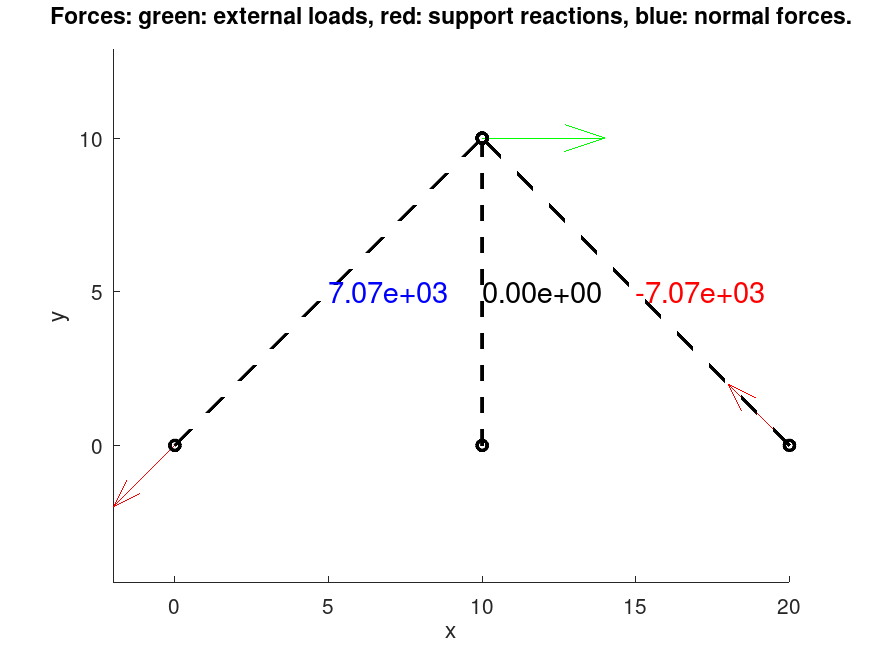
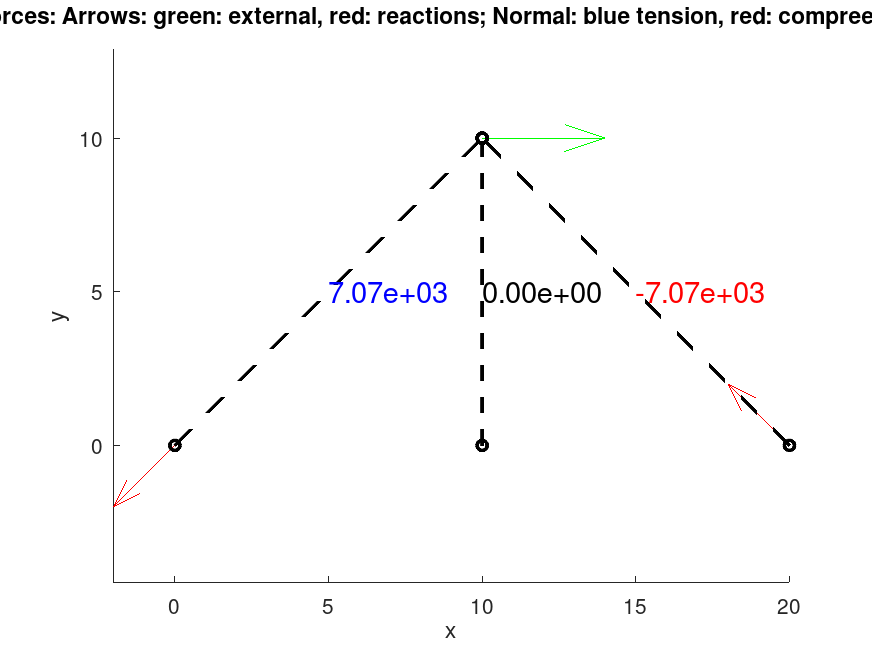
fix title, fix verif

Changed region(s): [[0.0, 0.0, 1.0, 0.0612]]

diff --git a/examples/Example_5.m b/examples/Example_5.m
@@ -63,16 +63,6 @@ Process
 %% 4- Output
 Plots
 
-% Ns_sol = zeros( 10,3) ;
-% Ns_sol( [ 3 5 6 8   10 ], 1 ) = [ 50e3; -50e3; -50e3*sqrt(2); -50e3; 50e3*sqrt(2) ] ;
-% Ns_sol( [ 1 2 5 8   10 ], 2 ) = [ -1; -1; -1; -1; 1*sqrt(2) ] ;
-% Ns_sol( [ 2 5 7 8 9 10 ], 3 ) = [ -1/sqrt(2); -1/sqrt(2); -1/sqrt(2); -1/sqrt(2); 1; 1 ] ;
-
-% disp_sol = 0.006072 ;
-
-% verif_boolean = ( norm( Ns - Ns_sol ) < 1e-6 ) && ( abs( disp - disp_sol ) < ( 1e-2*disp_sol ) )
-
-% scalefactor = 10;
-% FEMTrusS
+verif_boolean = norm( ResultNormalForces - [0;0;0;-5;-5] ) < 1e-8 ;
 
 

diff --git a/src/Plots.m b/src/Plots.m
@@ -46,7 +46,7 @@ for i=1:nelems
 end
 axis equal, xlabel('x'), ylabel('y')
 
-title('Forces: green: external loads, red: support reactions, blue: normal forces.')
+title('Forces - Arrows: green: external, red: reactions // Normal: blue: tension, red: compression.')
 if exist( 'problem_name' ) ~= 0 
   print( '-dpng', [ problem_name '_forces.png' ] )
 end

diff --git a/src/Process.m b/src/Process.m
@@ -106,4 +106,3 @@ sum( ResultNormalForces .* Nsaux .* Lengths )
 disp = sum( ResultNormalForces .* Nsaux ./ ( Youngs .* Areas ) .* Lengths )
 
 
-verif_boolean = norm( ResultNormalForces - [0;0;0;-5;-5] ) < 1e-8

diff --git a/README.md b/README.md
@@ -1,12 +1,12 @@
-# FMTS: a Force Method Truss Solver
+# FMS: a Force Method Solver
 
-![tests](https://github.com/jorgepz/Force-Method-TrusS/workflows/tests/badge.svg)
-[![License](https://img.shields.io/badge/License-GPLv3-green.svg)](https://github.com/jorgepz/Force-Method-TrusS/blob/main/LICENSE)
+![tests](https://github.com/jorgepz/Force-Method-Solver/workflows/tests/badge.svg)
+[![License](https://img.shields.io/badge/License-GPLv3-green.svg)](https://github.com/jorgepz/Force-Method-Solver/blob/main/LICENSE)
 
 
-## What is FMTS?
+## What is FMS?
 
-FMTS is a GNU-Octave code for solving 2D truss problems using the [Force Method](https://en.wikipedia.org/wiki/Unit_dummy_force_method). The main variables are normal forces in truss elements, and support reactions. The code generates simple plots like this on 
+FMS is a GNU-Octave code for solving 2D truss problems using the [Force Method](https://en.wikipedia.org/wiki/Unit_dummy_force_method). The main variables are normal forces in truss elements, and support reactions. The code generates simple plots like this on 
 
 ![fig example 1](examples/Example_1_forces.png)
 
@@ -16,7 +16,7 @@ The purpose of this repo is to provide an example of a computational implementat
 
 ## How to use it?
 
- 1. download and unzip the code https://github.com/jorgepz/Force-Method-TrusS/archive/refs/heads/main.zip
+ 1. download and unzip the code https://github.com/jorgepz/Force-Method-Solver/archive/refs/heads/main.zip
  1. open GNU-Octave or Matlab and move to the `examples` folder and run one of the scripts
 
 ## How it works?
